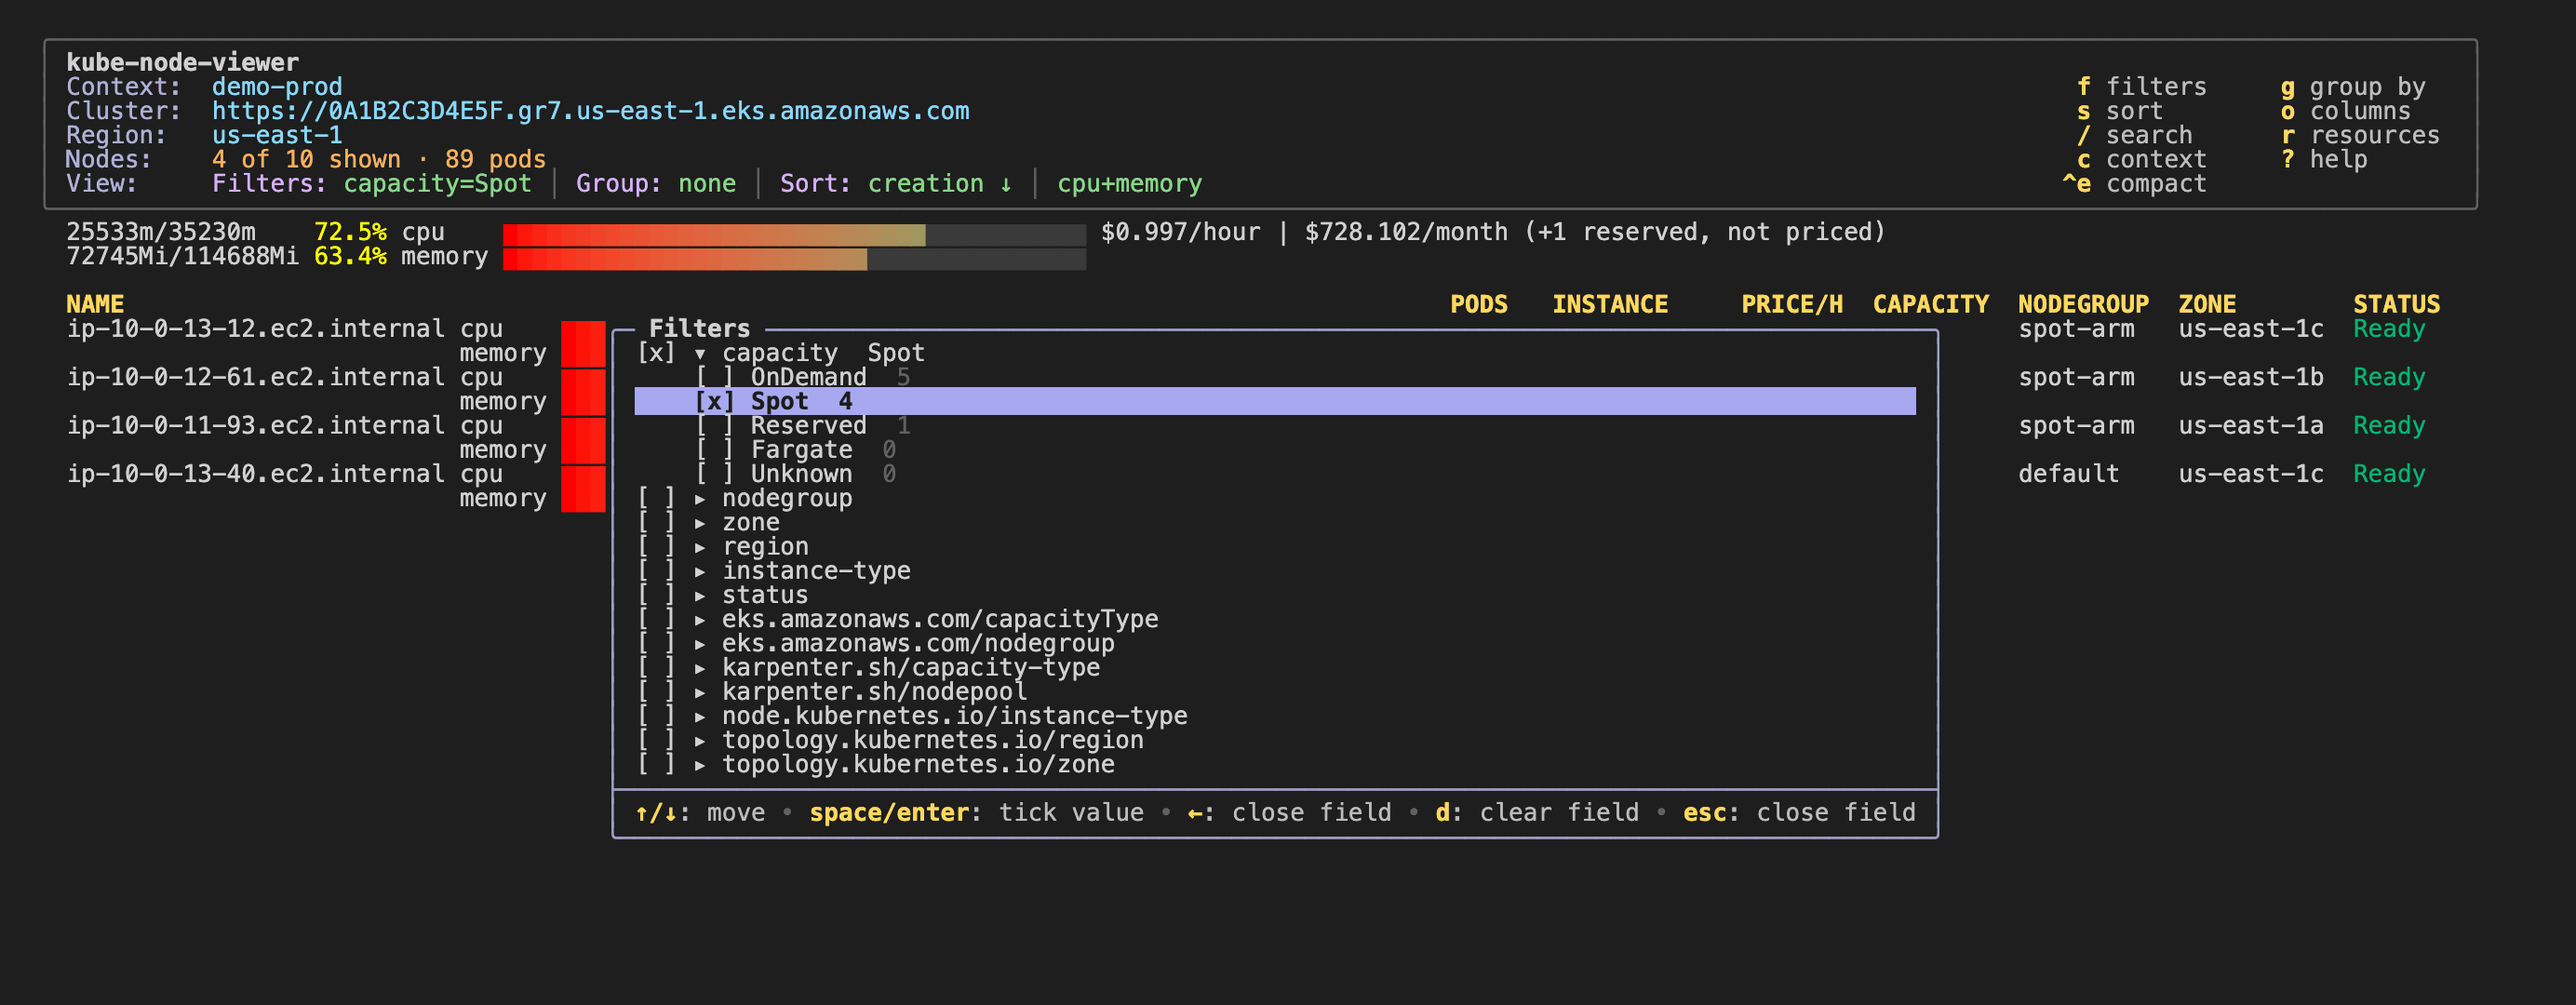
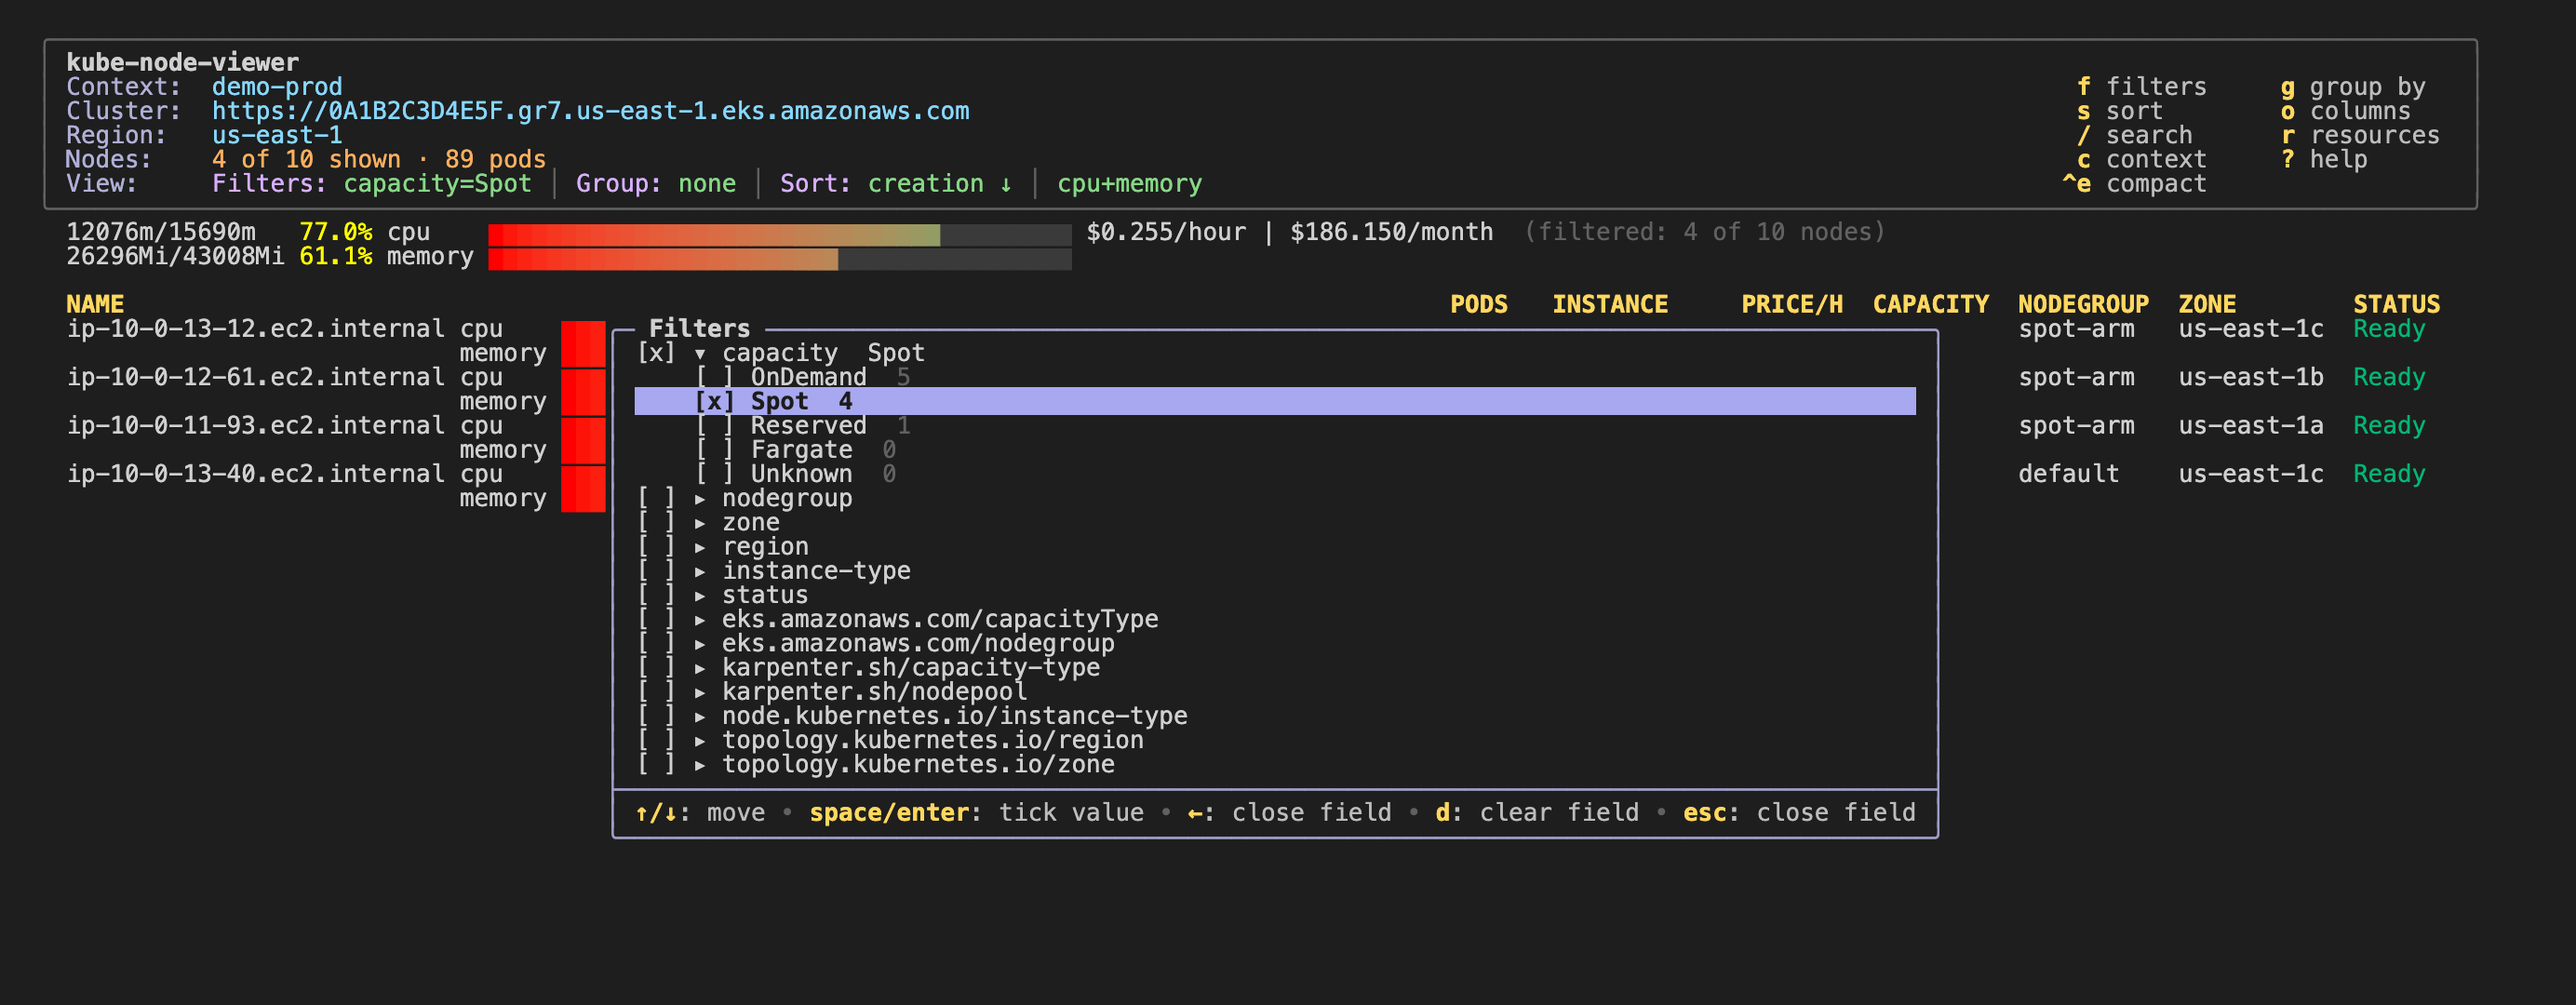
feat: the cluster summary follows the filters
With filters or a search on, the summary's usage bars and cost covered
every watched node. They now cover the nodes on screen, marked
(filtered: N of M nodes); a reserved node filtered in still counts as
not priced. README, spec note, CHANGELOG and screenshots updated.

diff --git a/pkg/model/uimodel.go b/pkg/model/uimodel.go
@@ -370,10 +370,27 @@ func (u *UIModel) usageBar(fill float64, width int, cell rune) string {
 // clusterSummary is the cluster-wide usage and cost, one line per resource.
 // It covers every watched node, whatever the filters; node and pod counts are
 // in the header.
-func (u *UIModel) clusterSummary(stats Stats) string {
+// The usage and cost are those of the nodes on screen: with filters or a
+// search they cover only the nodes kept, marked so they don't read as the
+// cluster's total.
+func (u *UIModel) clusterSummary(stats Stats, nodes []*Node) string {
+	shown := stats
+	if len(nodes) != stats.NumNodes {
+		g := newGroupStats("")
+		for _, n := range nodes {
+			g.add(n)
+		}
+		shown = Stats{
+			NumNodes:             g.NumNodes,
+			AllocatableResources: g.AllocatableResources,
+			UsedResources:        g.UsedResources,
+			TotalPrice:           g.TotalPrice,
+			UnpricedReserved:     g.ReservedNodes,
+		}
+	}
 	var b strings.Builder
 	ctw := text.NewColorTabWriter(&b, 0, 8, 1)
-	u.writeClusterSummary(u.cluster.resources, stats, ctw)
+	u.writeClusterSummary(u.cluster.resources, shown, ctw, len(nodes) != stats.NumNodes, stats.NumNodes)
 	ctw.Flush()
 	return b.String()
 }
@@ -383,7 +400,7 @@ func (u *UIModel) setBarCell(cell rune) {
 	u.progress.Full, u.progress.Empty = cell, cell
 }
 
-func (u *UIModel) writeClusterSummary(resources []v1.ResourceName, stats Stats, w io.Writer) {
+func (u *UIModel) writeClusterSummary(resources []v1.ResourceName, stats Stats, w io.Writer, filtered bool, total int) {
 	firstLine := true
 	defer u.setBarCell(u.progress.Full)
 
@@ -406,6 +423,9 @@ func (u *UIModel) writeClusterSummary(resources []v1.ResourceName, stats Stats, 
 		}
 		if u.DisablePricing {
 			clusterPrice = ""
+		}
+		if filtered {
+			clusterPrice += helpStyle(u.printer.Sprintf("  (filtered: %d of %d nodes)", stats.NumNodes, total))
 		}
 		if firstLine {
 			u.printer.Fprintf(w, "%s/%s\t%s\t%s\t%s\t%s\n",

diff --git a/pkg/model/fit_internal_test.go b/pkg/model/fit_internal_test.go
@@ -131,3 +131,29 @@ func TestHeaderShowsRecentIssueOnly(t *testing.T) {
 		t.Error("an old issue is still shown")
 	}
 }
+
+func TestSummaryCoversOnlyShownNodes(t *testing.T) {
+	u := demoUI(t)
+	u.Update(tea.WindowSizeMsg{Width: 200, Height: 40})
+	all := u.View()
+	if !strings.Contains(all, "$0.997/hour") || strings.Contains(all, "filtered:") {
+		t.Fatalf("unfiltered summary:\n%s", all)
+	}
+	// spot-arm: three nodes at 0.031 + 0.029 + 0.058 = 0.118/hour
+	v := u.view
+	v.Filters = []Filter{{Field: FieldNodeGroup, Values: []string{"spot-arm"}, Enabled: true}}
+	u.SetView(v)
+	out := u.View()
+	if !strings.Contains(out, "$0.118/hour") || !strings.Contains(out, "(filtered: 3 of 10 nodes)") {
+		t.Errorf("filtered summary:\n%s", out)
+	}
+	if strings.Contains(out, "$0.997/hour") {
+		t.Error("the cluster total still shows under a filter")
+	}
+	// a reserved node filtered in is counted as not priced, not as cost
+	v.Filters = []Filter{{Field: FieldCapacity, Values: []string{"Reserved"}, Enabled: true}}
+	u.SetView(v)
+	if out := u.View(); !strings.Contains(out, "$0.000/hour") || !strings.Contains(out, "(+1 reserved, not priced)") {
+		t.Errorf("reserved only:\n%s", out)
+	}
+}

diff --git a/pkg/model/layout.go b/pkg/model/layout.go
@@ -91,7 +91,7 @@ func (u *UIModel) render() string {
 // renderContent is everything below the header, headerLines tall.
 func (u *UIModel) renderContent(stats Stats, nodes []*Node, headerLines int) string {
 	var b strings.Builder
-	b.WriteString(u.fit(u.clusterSummary(stats)))
+	b.WriteString(u.fit(u.clusterSummary(stats, nodes)))
 	b.WriteString("\n")
 
 	// what is left between the summary and the two footer lines

diff --git a/README.md b/README.md
@@ -89,8 +89,9 @@ sort, resources); the main keys. `ctrl+e` switches between this full panel
 and a two-line box. On a very short window it shrinks to one line.
 
 **Cluster summary.** Requested over allocatable, the percentage and a bar for
-each resource, and the cost per hour and per month. It covers every watched
-node, whatever the filters.
+each resource, and the cost per hour and per month, for the nodes on screen:
+with filters or a search it covers only the nodes they keep and says so,
+`(filtered: 3 of 10 nodes)`.
 
 **Node list.** One block per node: a usage bar per resource (stacked, with a
 blank line between nodes when more than one resource is shown), the pods on

diff --git a/specs/interactive-tui/requirements.md b/specs/interactive-tui/requirements.md
@@ -271,6 +271,11 @@ folded groups SHALL be saved with the view.
 > **Added 2026-11-02.** The owner asked to fold a single group, which needs a
 > row cursor (suggestion 4 of the UX pass).
 
+> **Added 2026-11-02 (after v0.8.2).** The cluster summary covers the nodes
+> on screen: with filters or a search, usage and cost are those of the nodes
+> kept, marked `(filtered: N of M nodes)`; the owner wanted the cost of what
+> the filters show, not the cluster's.
+
 ## Counter-examples
 
 - SHALL NOT list or show individual pods; pods only feed per-node totals

diff --git a/CHANGELOG.md b/CHANGELOG.md
@@ -6,6 +6,11 @@ All notable changes to this project are documented here. Format:
 
 ## [Unreleased]
 
+### Changed
+
+- The cluster summary follows the filters and search: usage and cost are
+  those of the nodes on screen, marked `(filtered: N of M nodes)`.
+
 ## [0.8.2] - 2026-11-02
 
 ### Added
